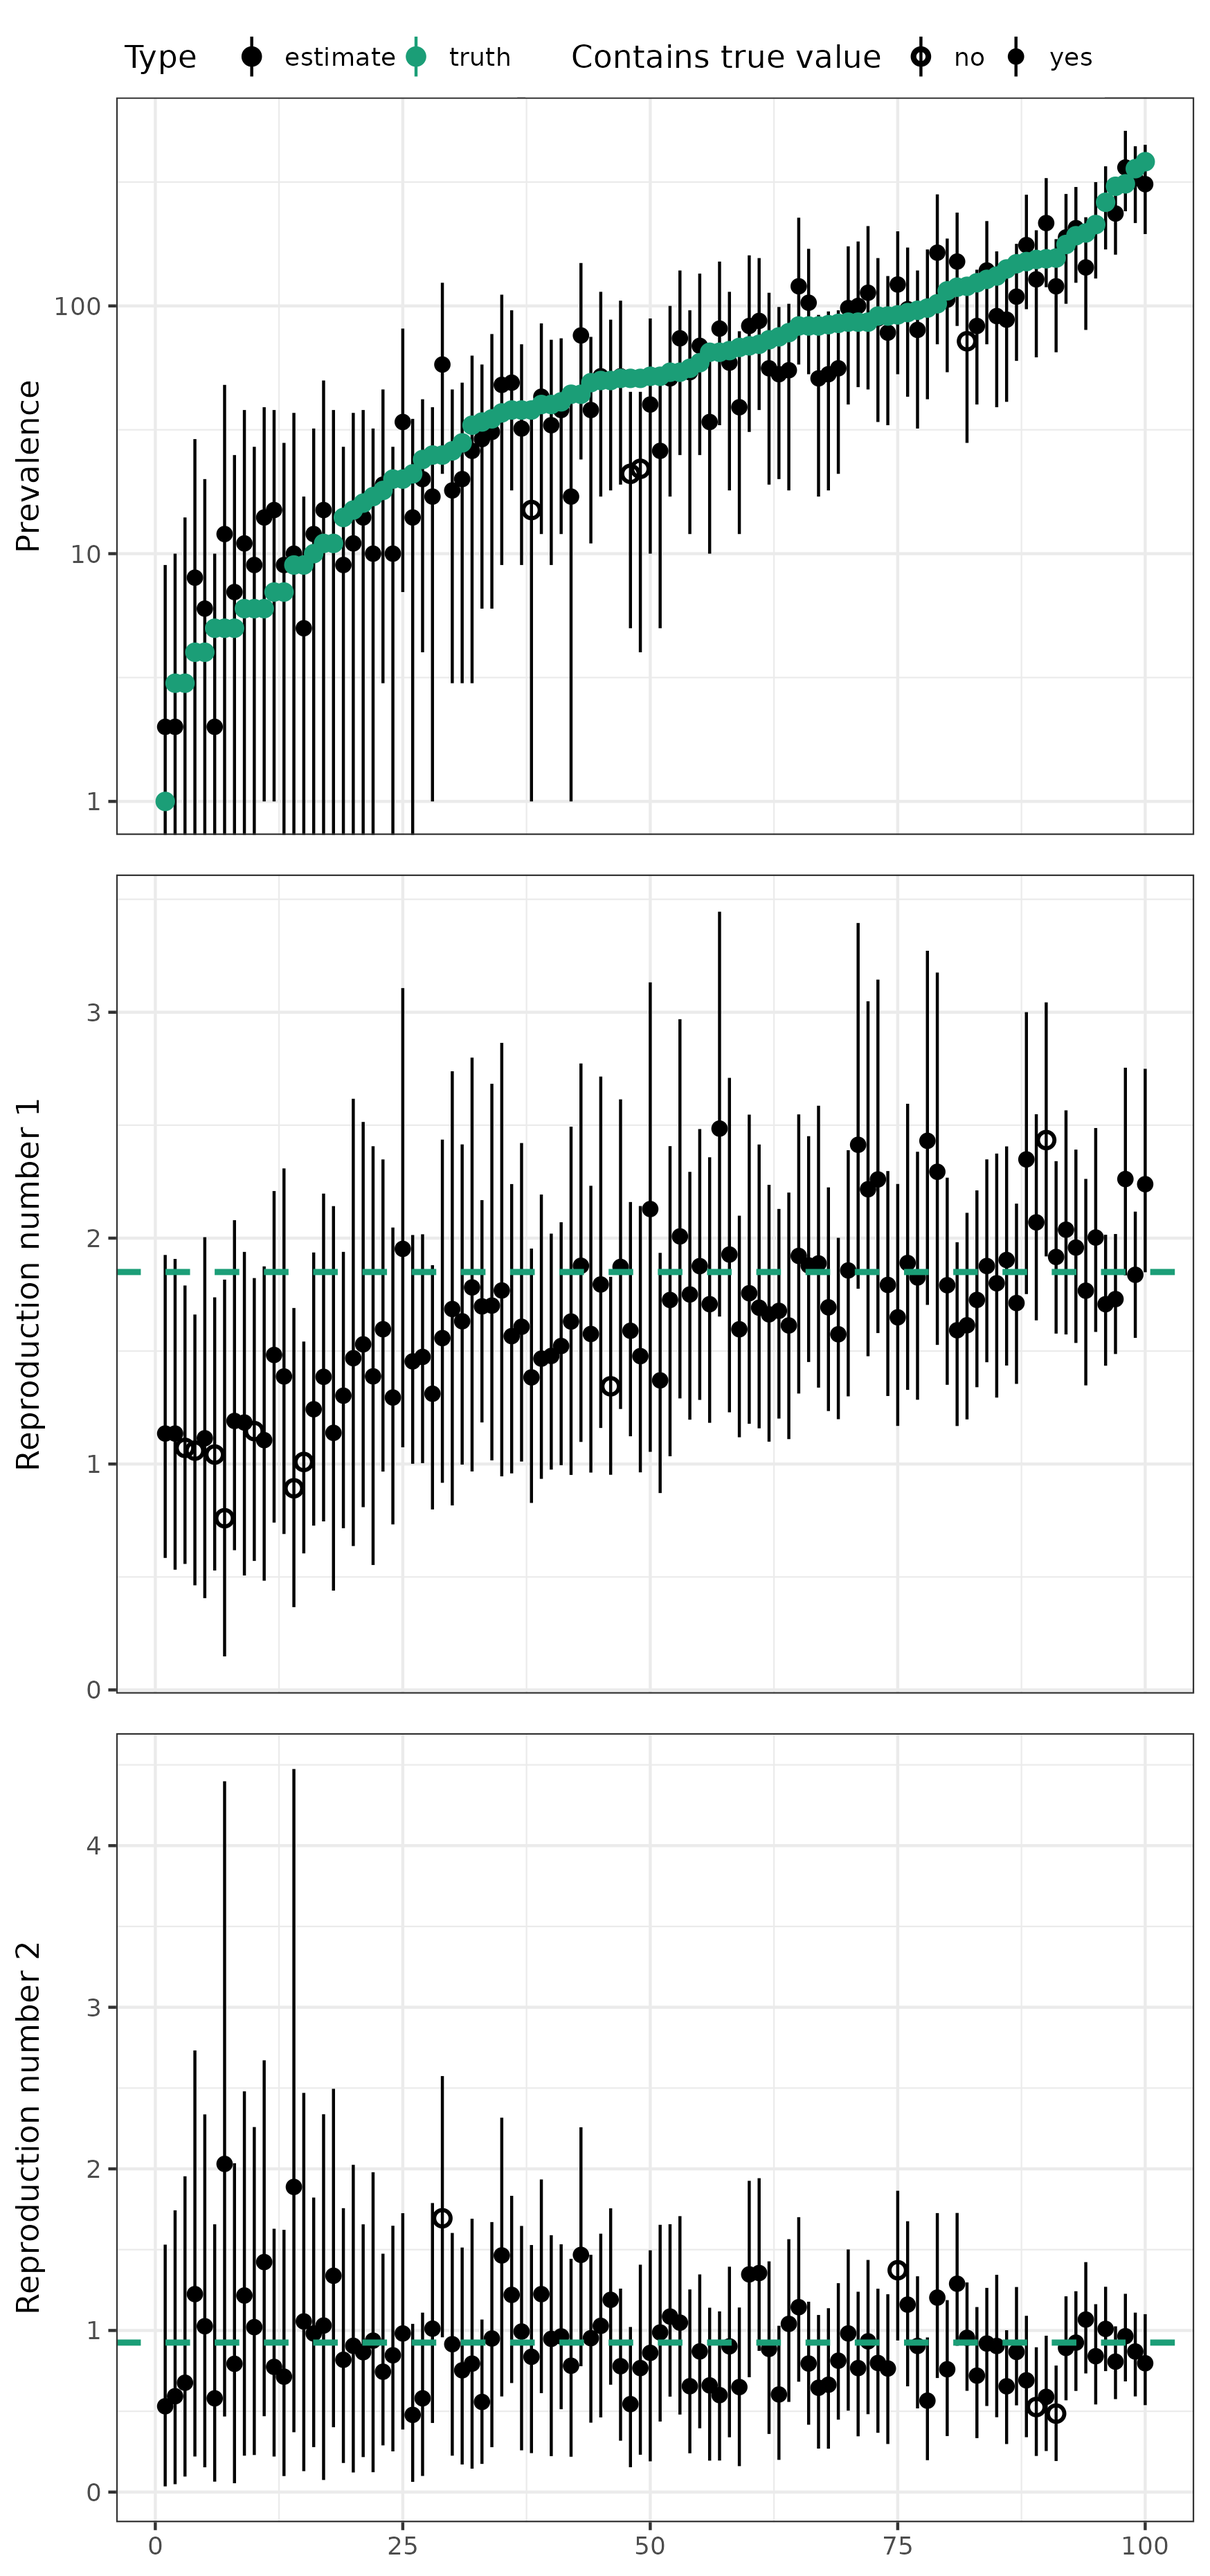
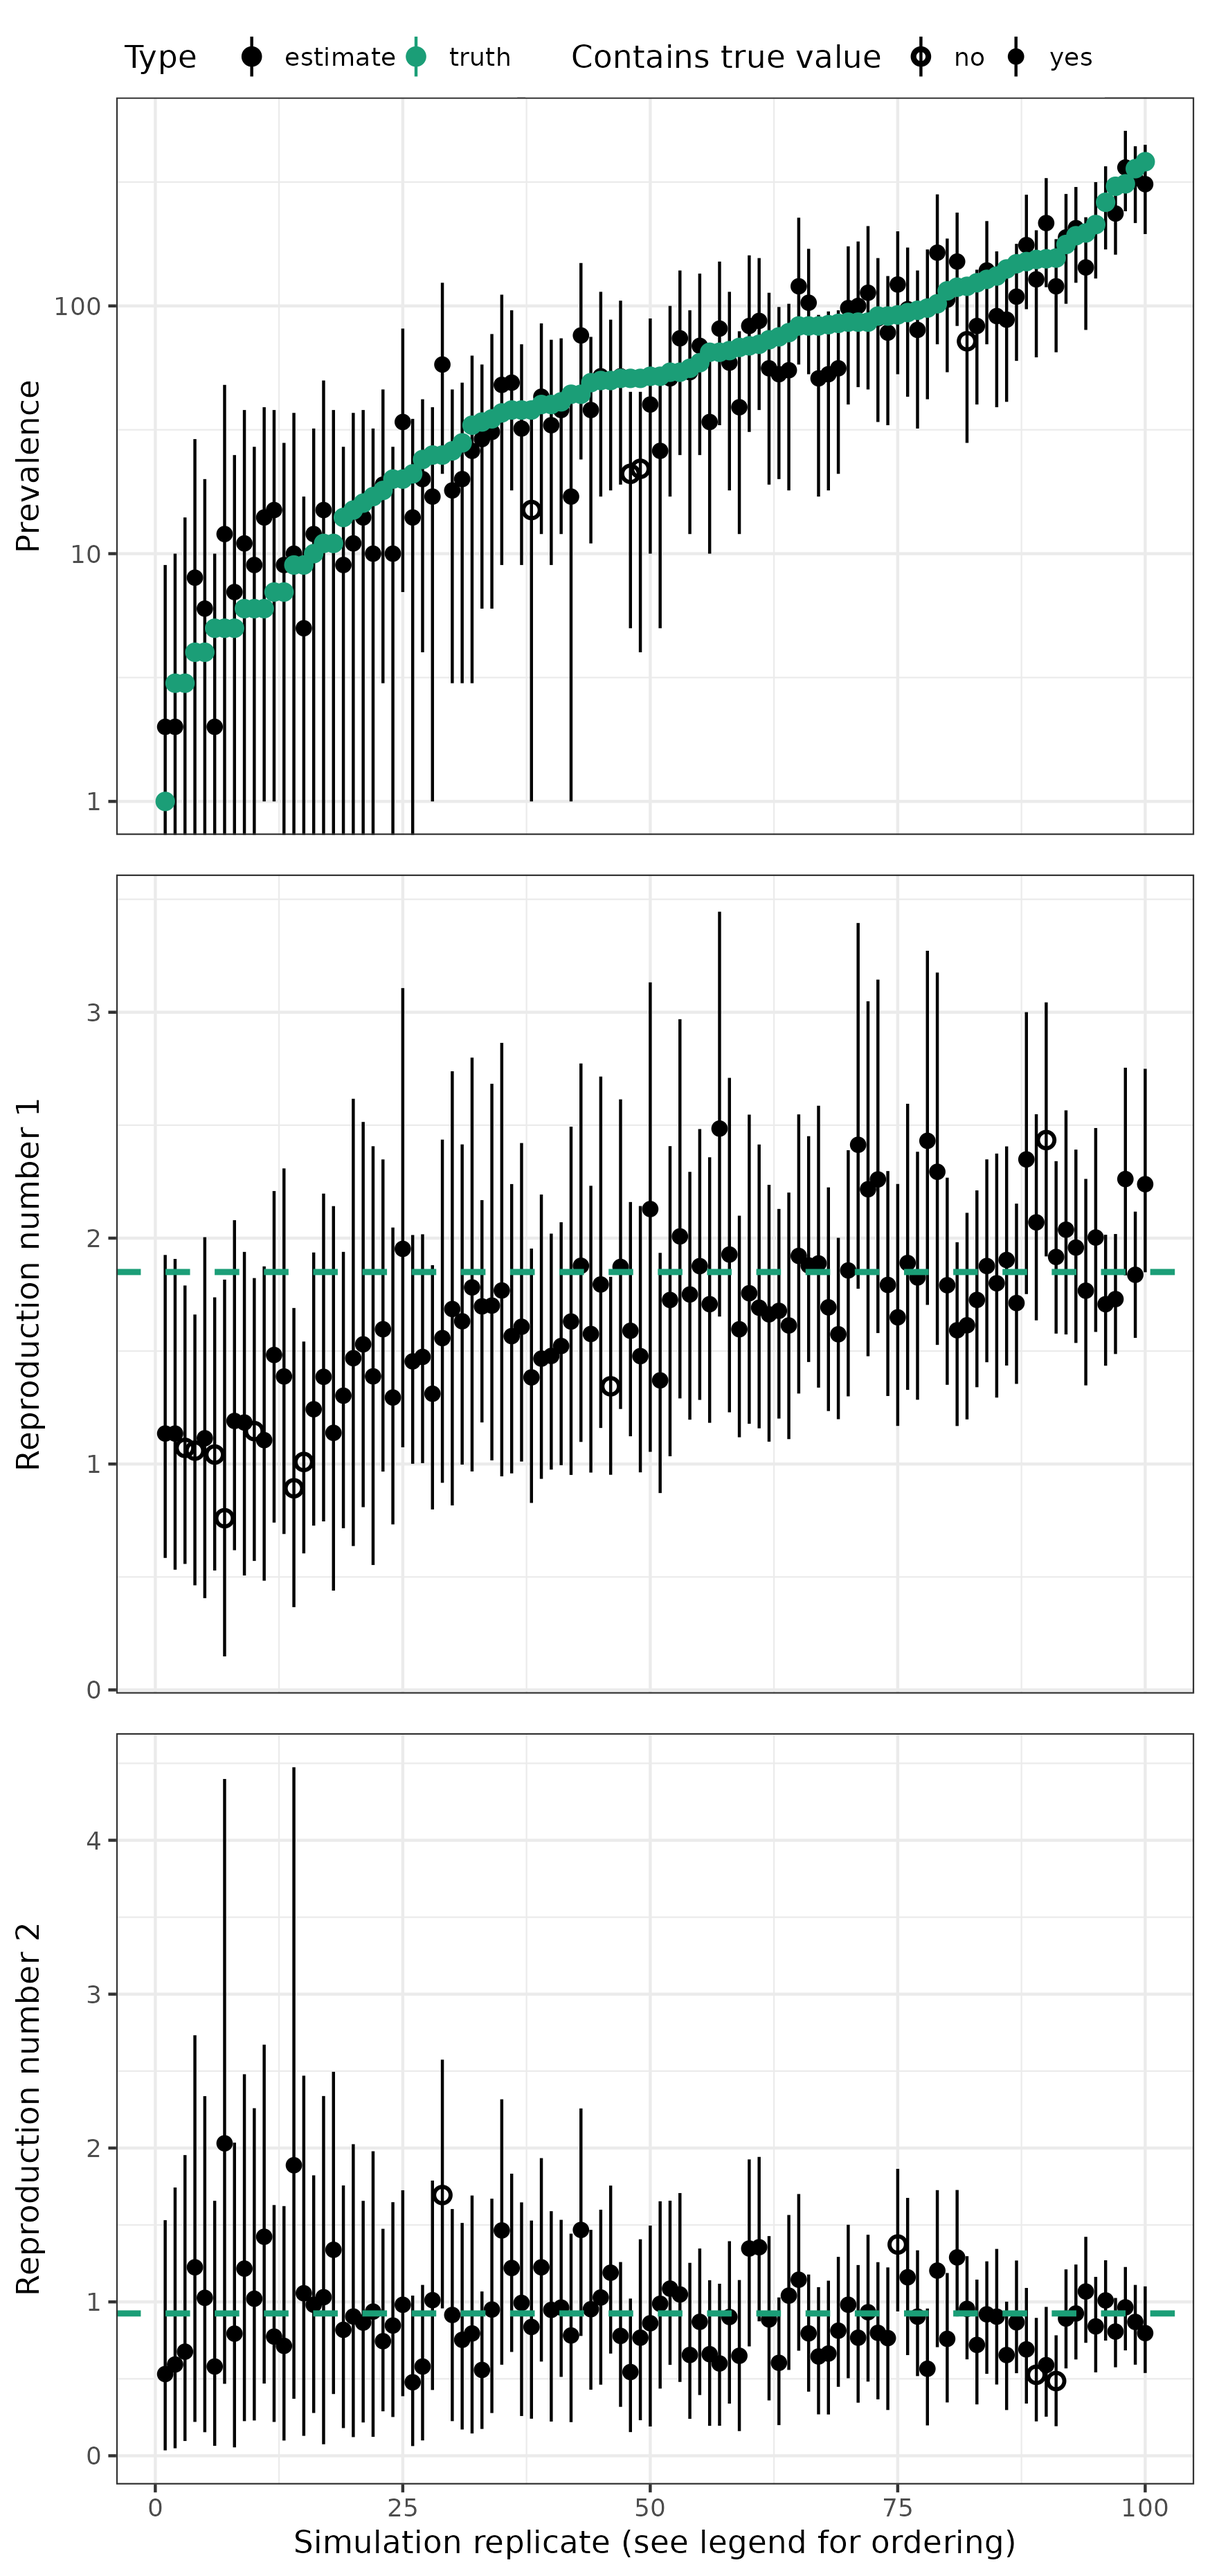
Svg figures (#13)
* add a helper function to save as svg if given a png output

* use the my_ggsave in 3 part b

* update usage of ggsave in all other postprocessing scripts

* tex output gets updated time stamp

* docs

* add axis title

diff --git a/out/s3/summary-scenario-3-2.tex b/out/s3/summary-scenario-3-2.tex
@@ -1,5 +1,5 @@
 % latex table generated in R 4.3.0 by xtable 1.8-4 package
-% Fri Mar 22 18:18:39 2024
+% Wed Apr 17 13:51:26 2024
 \begin{table}[ht]
 \centering
 \begin{tabular}{lrrrrrr}

diff --git a/out/s3/summary-scenario-3-3.tex b/out/s3/summary-scenario-3-3.tex
@@ -1,5 +1,5 @@
 % latex table generated in R 4.3.0 by xtable 1.8-4 package
-% Fri Mar 22 18:18:45 2024
+% Wed Apr 17 13:51:32 2024
 \begin{table}[ht]
 \centering
 \begin{tabular}{lrrrrrr}
